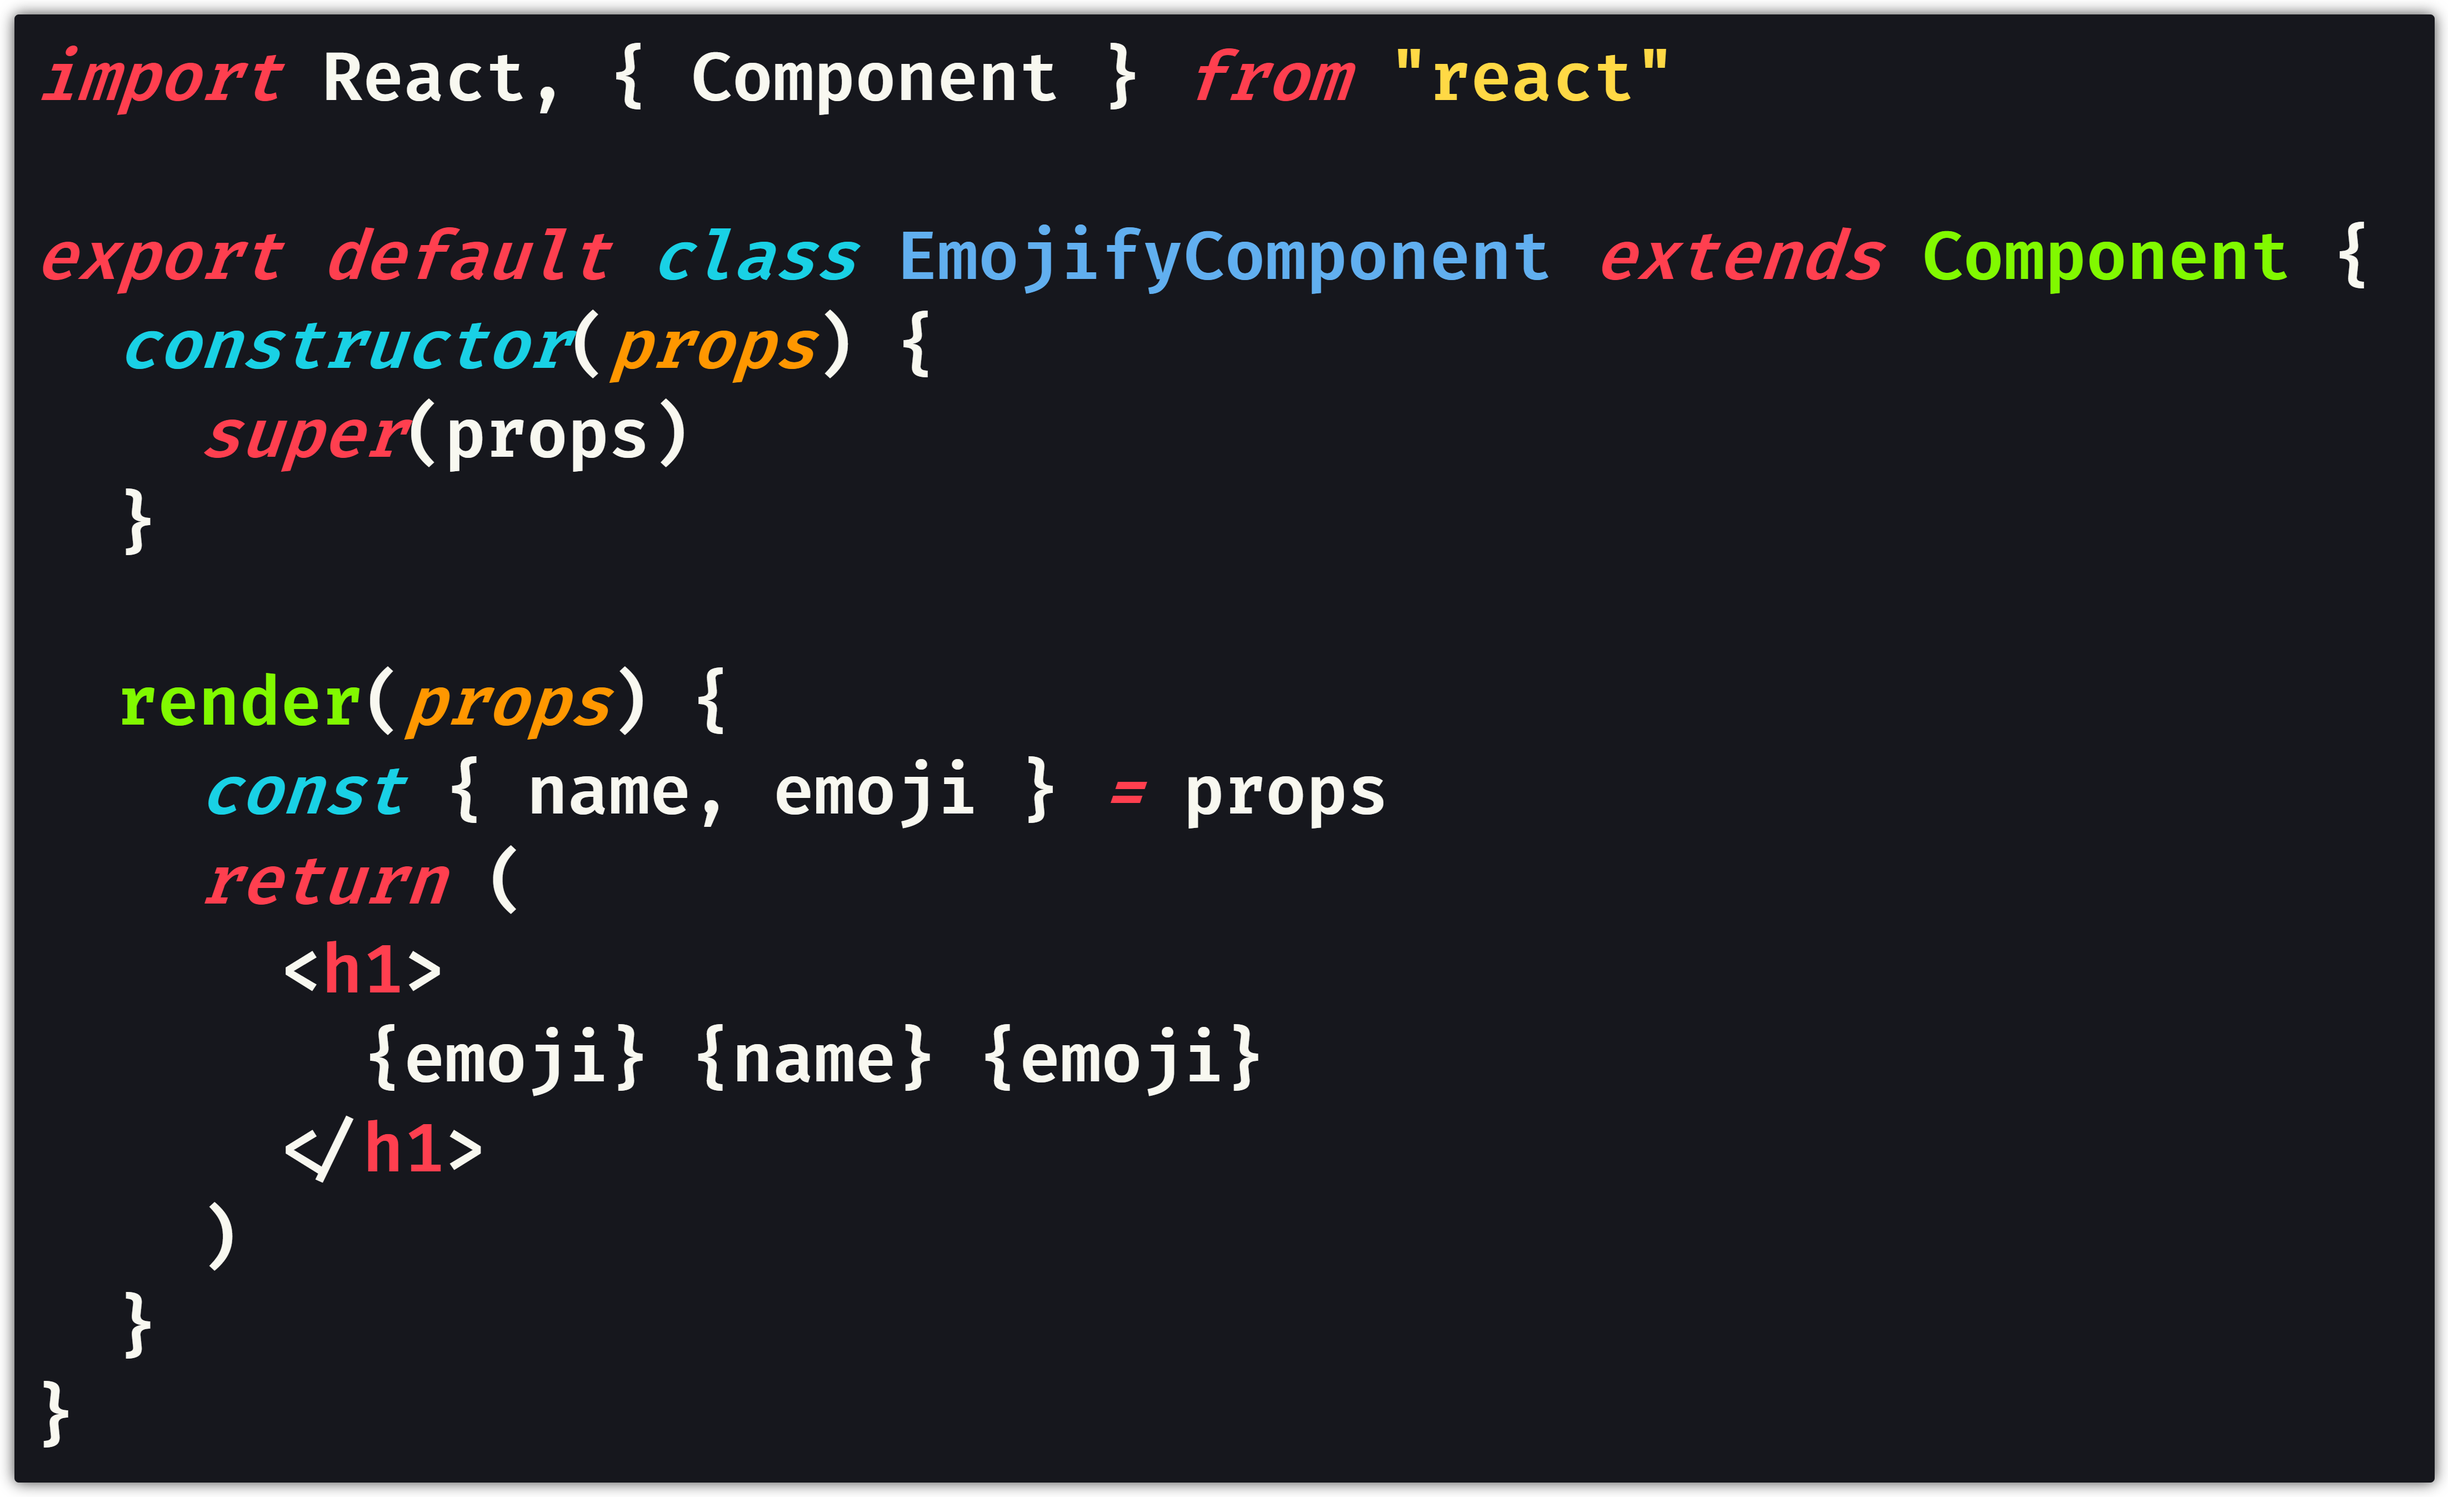
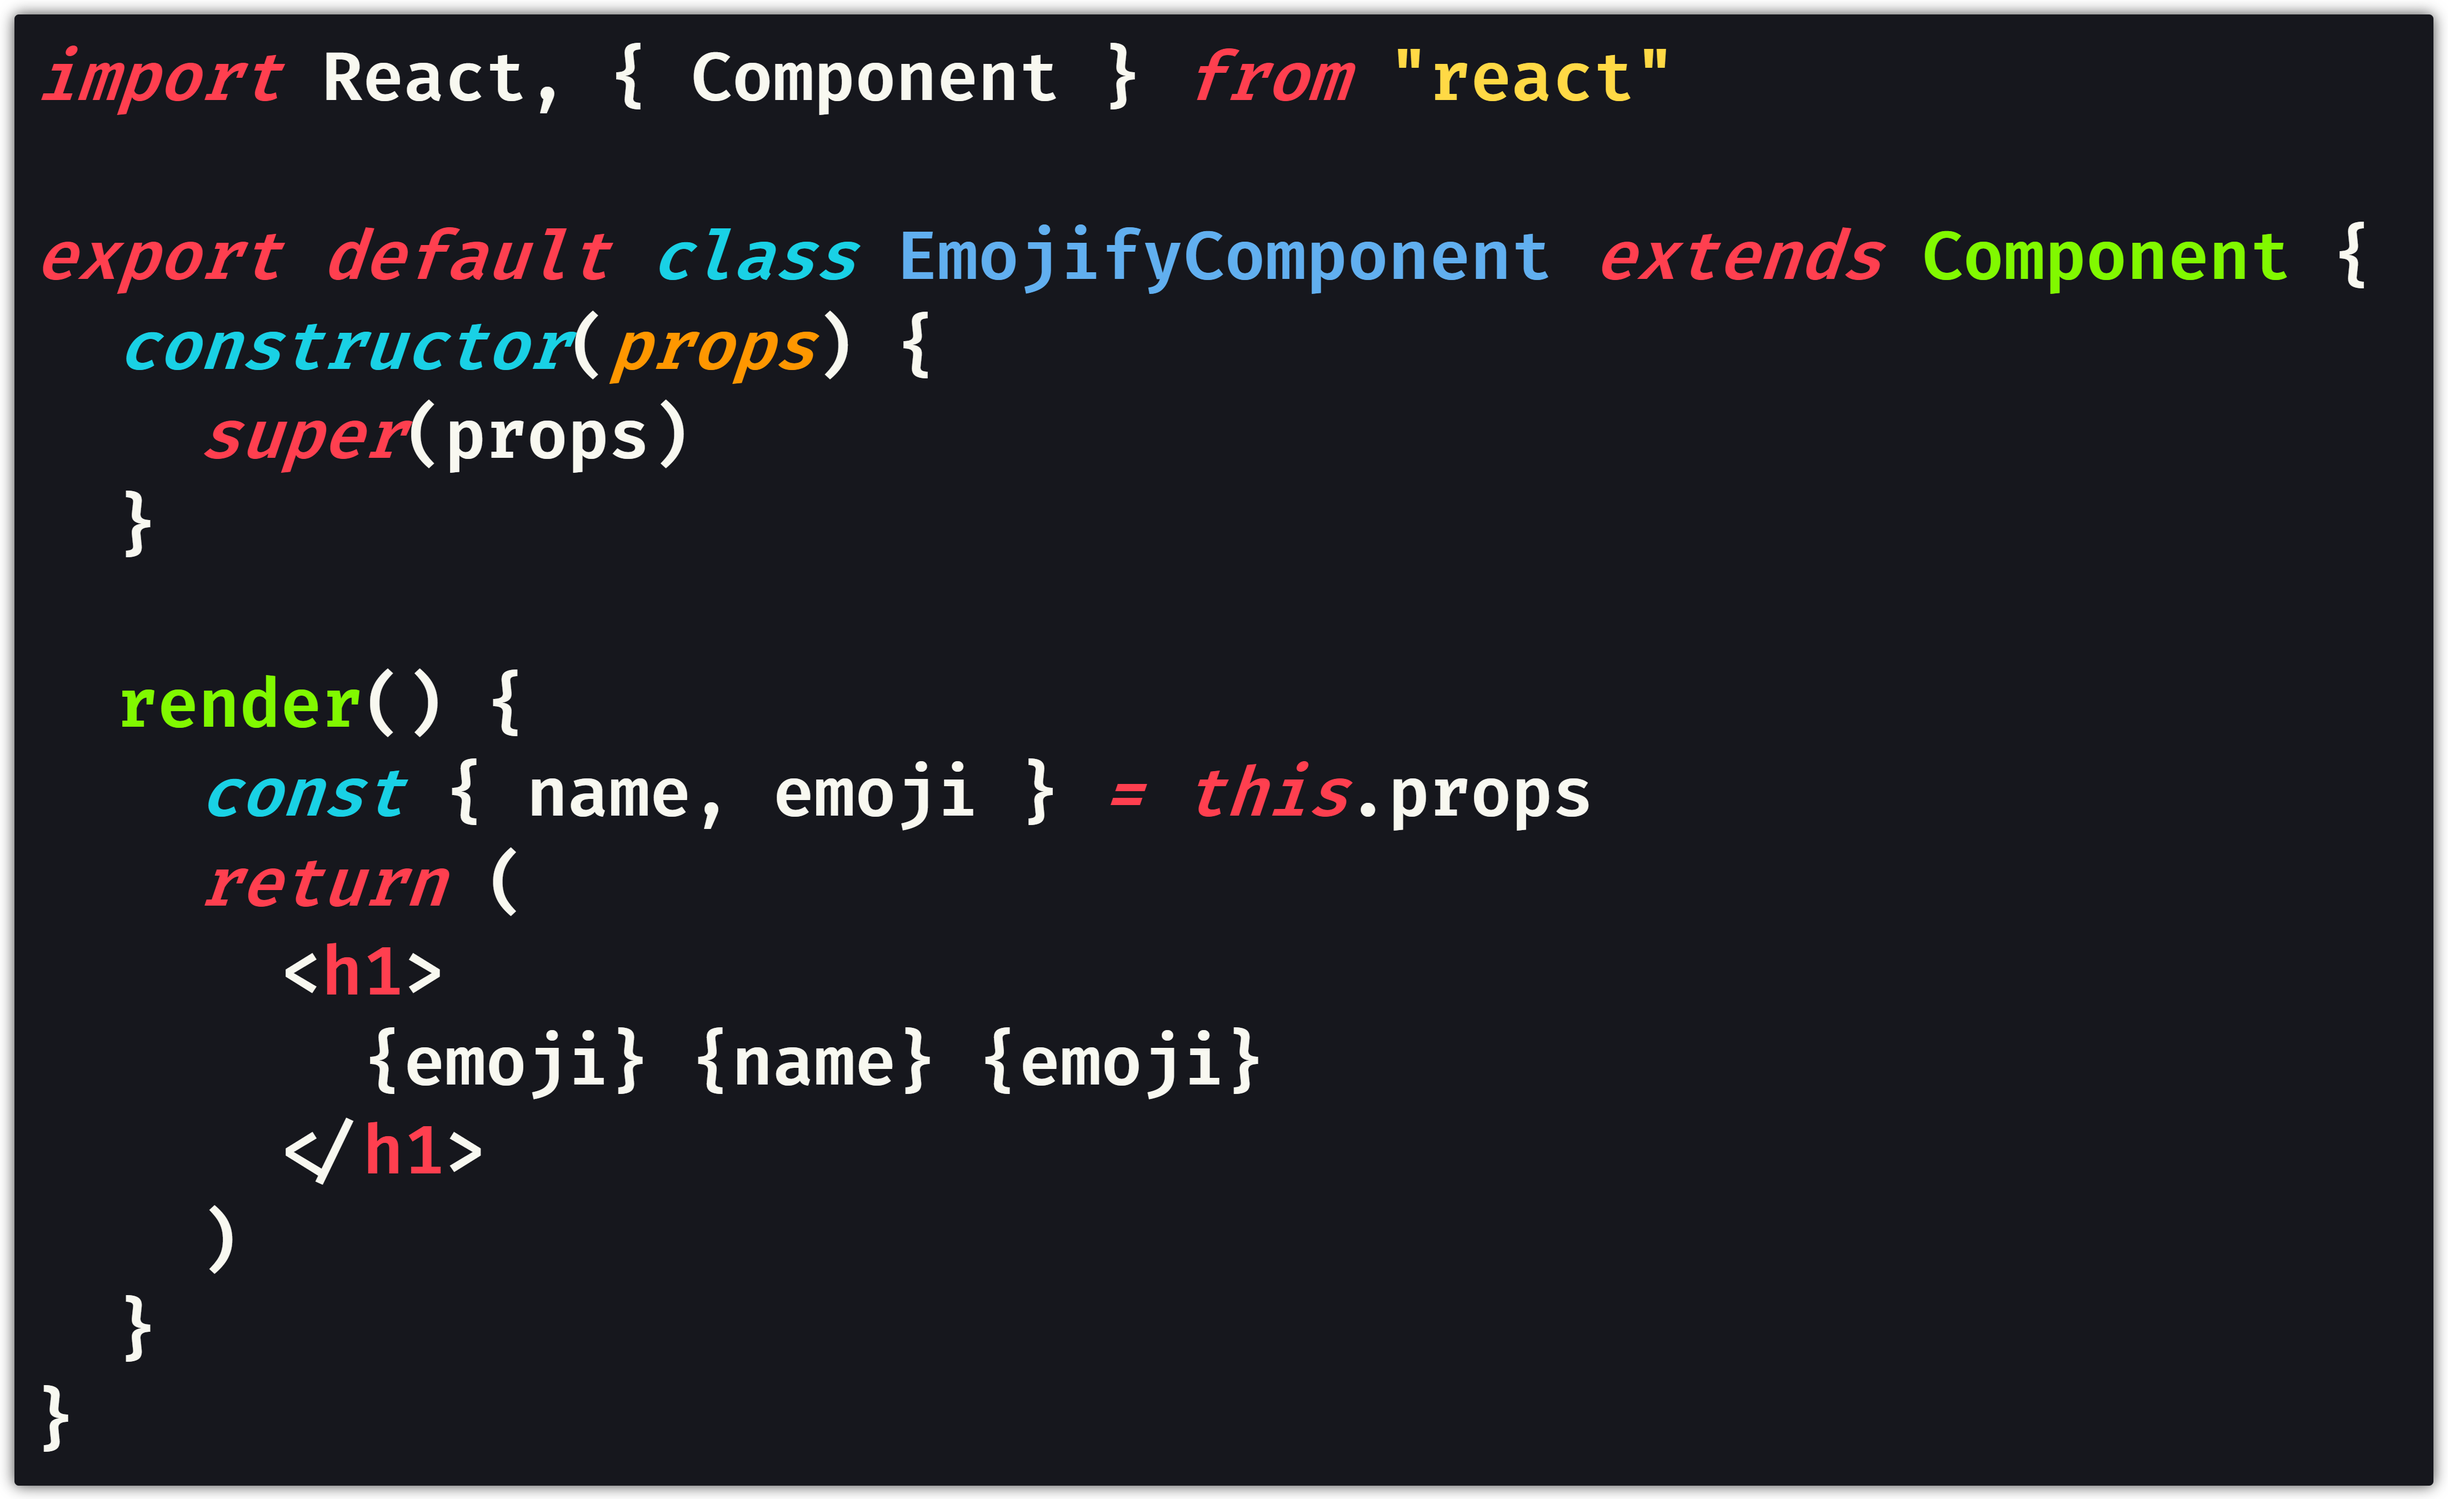
Updated images for typo -- no render(props) in a class component it's render() and this.props

diff --git a/Destructure React Props with ES6 Object Destructuring for Cleaner Code/6Props Destructuring in a Class Component.js b/Destructure React Props with ES6 Object Destructuring for Cleaner Code/6Props Destructuring in a Class Component.js
@@ -5,8 +5,8 @@ export default class EmojifyComponent extends Component {
     super(props)
   }
 
-  render(props) {
-    const { name, emoji } = props
+  render() {
+    const { name, emoji } = this.props
     return (
       <h1>
         {emoji} {name} {emoji}
